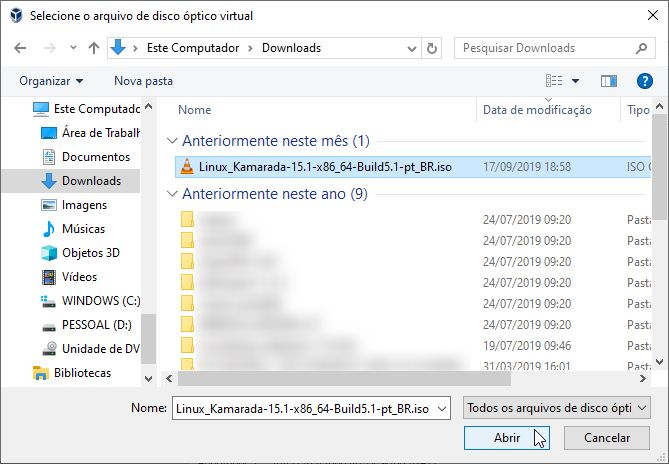
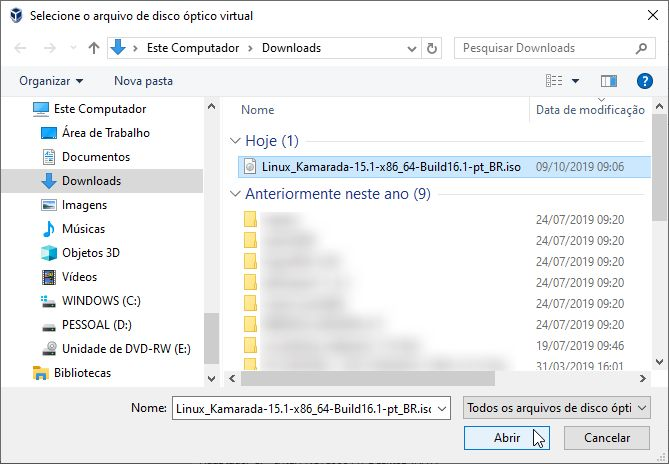
Post (in English) - VirtualBox: the easiest way to try Linux without installing it

diff --git a/en/_posts/2019-10-10-virtualbox-the-easiest-way-to-try-linux-without-installing-it.md b/en/_posts/2019-10-10-virtualbox-the-easiest-way-to-try-linux-without-installing-it.md
@@ -1,0 +1,234 @@
+---
+date: '2019-10-10 22:30:00 GMT-3'
+layout: post
+published: true
+title: 'VirtualBox: the easiest way to try Linux without installing it'
+image: '/files/2019/07/virtualbox-en.jpg'
+nickname: 'virtualbox'
+---
+
+{% include image.html src="/files/2019/07/virtualbox-en.jpg" %}
+
+[VirtualBox] allows you to use [Linux] within a window, just like you use any other app on your familiar operating system. Do you want to use Linux? Just start it. Finished using? Just close it. That is handy because you can have your first contact with Linux without actually installing it. It is even handier than a [LiveDVD/USB][live], because to use live media you need to reboot.
+
+By "window", I meant to simplify it, so that you could have a picture of how it looks like. But actually that "window", technically speaking, is a **virtual machine** (often abbreviated as **VM**): it is an emulated computer created by software. It provides similar functionality to a physical machine, so that you can install operating systems and apps on it. The operating system (OS) installed on a virtual machine "believes" it is installed on a "real" computer.
+
+Your computer (which is a physical machine and is, in contrast, called a **real machine**) can run many virtual machines at the same time (as long as the needed amounts of RAM and disk space are available). In practice, that means you can use multiple OSes at the same time. For example, you can use both [Windows] and Linux at the same time.
+
+The operating system of the real machine is called **host operating system** (**host OS**): it hosts the virtual machine, whose operating system is called **guest operating system** (**guest OS**).
+
+This technology is called **virtualization**. And put simply, VirtualBox is a software that provides you an user-friendly way to do virtualization using your personal computer.
+
+[VirtualBox] is a [free and open-source][foss] cross-platform virtualization software developed by [Oracle]. It can be installed on your [PC][ibm-pc], whether you use Windows, [macOS], Linux or [Solaris], and it supports a large number of guest operating systems, including, but not limited to: Windows (3.x, 95, 98, NT, 2000, XP, Server 2003, Vista, 7, 8, 8.1, 10, Server 2008, Server 2012 and Server 2016), DOS, Linux (2.4, 2.6, 3.x and 4.x), Solaris, OpenSolaris, OS/2 and OpenBSD.
+
+We already talked a little about VirtualBox in another post:
+
+- [20 apps you can use the same way on both Linux and Windows — part 2][apps-linux-windows-2]
+
+Today we are going to see how to install VirtualBox on Windows, create a virtual machine and boot a Linux [live image][live] on it. To demonstrate how to do that, I'm going to use the [Kamarada][kamarada-15.1-beta] Linux distribution, which you get on the [Download] page.
+
+## Part 1 of 3
+
+For the post not to be too long, I decided to split it into three parts:
+
+1. in this first part, you are going to install VirtualBox on Windows, learn its basics and start using Linux inside a virtual machine;
+2. in the second part, you will see how to install VirtualBox on Linux;
+3. in the third part, you will see some useful tips for using VirtualBox daily.
+
+This sequence of posts is devoted mainly to Windows users who haven't had their first contact with Linux yet and want to try it using the safety of VirtualBox.
+
+If you already use Linux, you may want to install VirtualBox to try another distribution. VirtualBox can be useful for [other purposes][virt-why-useful] too.
+
+## Downloading VirtualBox for Windows
+
+Download the VirtualBox installer going to its official website at:
+
+- [https://www.virtualbox.org/](https://www.virtualbox.org/)
+
+Click the **Download VirtualBox 6.0** banner:
+
+{% include image.html src="/files/2019/10/virtualbox-01.jpg" %}
+
+Below **VirtualBox binaries**, click **Windows hosts**:
+
+{% include image.html src="/files/2019/10/virtualbox-02.jpg" %}
+
+The download starts.
+
+## Installing VirtualBox on Windows
+
+Run the installer when the download is complete.
+
+{% include image.html src="/files/2019/10/virtualbox-03.jpg" %}
+
+You can install VirtualBox just like you install most programs on Windows (next, next, next).
+
+During installation, Windows prompts you whether to install drivers for VirtualBox:
+
+{% include image.html src="/files/2019/10/virtualbox-04-en.jpg" %}
+
+Allow it by clicking **Install**.
+
+At the end, click **Finish** to exit the installation wizard and start VirtualBox:
+
+{% include image.html src="/files/2019/10/virtualbox-05.jpg" %}
+
+## Creating a new virtual machine
+
+This is the VirtualBox start screen, so far without any virtual machine:
+
+{% include image.html src="/files/2019/10/virtualbox-06-en.jpg" %}
+
+To create a new virtual machine, click the **New** button.
+
+The **Create Virtual Machine** wizard is started:
+
+{% include image.html src="/files/2019/10/virtualbox-07-en.jpg" %}
+
+Give the virtual machine a **Name**. For instance, `openSUSE`.
+
+Note that when you type `openSUSE`, the wizard suggests the settings **Type** — `Linux` — and **Version** — `openSUSE (64-bit)`. If you wanted, you could have given another name to the virtual machine (e.g. `Testing Linux`) and filled those other fields manually. Regarding the name, what really matters is that it makes sense for you and helps you identify the VM.
+
+When you are finished, click **Next**.
+
+On the next page, inform the amount of RAM you want to reserve for the VM:
+
+{% include image.html src="/files/2019/10/virtualbox-08-en.jpg" %}
+
+In the image example, my real machine has a total of 16GB of RAM (16384MB) and I decided to reserve 2GB for the VM. In the future, when I start this VM, the guest OS will "believe" that it is running on a computer with 2GB of RAM, while the host OS will have 14GB left for all the other software (including any other virtual machines).
+
+Split the RAM so that there is enough memory for both the real and the virtual machines. Mind the green bar, which indicates the maximum amount of memory considered to be safe to reserve for the VM. In the example, that limit is somewhere around 10.5GB (doing the maths, 2/3 or 66% of the 16GB total).
+
+Note that the amount of RAM to be allocated is expressed in MB (2GB x 1024 = 2048MB).
+
+When you are finished, click **Next**.
+
+On the next page, we can create a virtual hard disk for the VM:
+
+{% include image.html src="/files/2019/10/virtualbox-09-en.jpg" %}
+
+A virtual hard disk, from the host OS perspective, is a large file, such as a ZIP archive. But VirtualBox presents it to the VM as if it were a physical HDD or SSD.
+
+Since we are going to use a live image, for now we don't really need to create a virtual hard disk to try Linux. We'll see how to create a virtual hard disk later.
+
+Then, choose **Do not add a virtual hard disk** and click **Create**.
+
+Click **Continue** to ignore the VirtualBox warning:
+
+{% include image.html src="/files/2019/10/virtualbox-10-en.jpg" %}
+
+Now the VirtualBox start screen shows your first virtual machine:
+
+{% include image.html src="/files/2019/10/virtualbox-11-en.jpg" %}
+
+Note that you can configure every aspect of the virtual machine (memory, display, storage, audio, network, etc.) to mimic a physical machine.
+
+## Inserting the ISO image into the virtual DVD drive
+
+Let's insert the ISO image of the Linux distribution into the virtual DVD drive of the virtual machine, as if we were inserting a DVD into the DVD drive of a physical machine.
+
+On the VirtualBox start screen, which shows the virtual machine settings, click **Storage**.
+
+By the left, under **Storage Devices**, within the **Controller: IDE**, select the DVD drive that appears as **Empty**:
+
+{% include image.html src="/files/2019/10/virtualbox-12-en.jpg" %}
+
+By the right, click the media icon and then, on the drop-down menu that appears, click **Choose Virtual Optical Disk File**.
+
+Select the ISO image of the Linux distribution you downloaded and click **Open**:
+
+{% include image.html src="/files/2019/10/virtualbox-13-en.jpg" %}
+
+Click **OK** to close the **Settings** dialog box and return to the VirtualBox start screen.
+
+## Starting and using the virtual machine
+
+To start the virtual machine, click the **Start** button:
+
+{% include image.html src="/files/2019/10/virtualbox-14-en.jpg" %}
+
+(doing that is similar to pressing the power button of a physical machine)
+
+VirtualBox opens a new window for the virtual machine, which starts to boot the operating system up, just like a physical machine would do:
+
+{% include image.html src="/files/2019/10/virtualbox-15-en.jpg" %}
+
+Everything which would normally be seen on the virtual machine's monitor is shown in the window.
+
+When the system finishes booting up, you will see the desktop and can start using it:
+
+{% include image.html src="/files/2019/10/virtualbox-16-en.jpg" %}
+
+In addition to displaying image, the VM window also allows you to interact with the VM: to control the VM, click on the window, then the keyboard and the mouse are now "owned" by the VM and can be used only within it.
+
+To return ownership of keyboard and mouse to the host OS, VirtualBox reserves a special key on the keyboard: it is called the **Host key** and it is, by default, the **right Ctrl** key. Press the Host key, then keyboard and mouse are now owned by the host OS again.
+
+The current setting for the Host key is always displayed at the bottom right of your VM window:
+
+{% include image.html src="/files/2019/10/virtualbox-17.png" %}
+
+In case the guest OS reports that it supports **mouse pointer integration**, that means you can move the mouse pointer freely between the virtual machine window and other opened windows on the host OS, you don't need to click on the VM window to capture the mouse, nor hit the Host key to release it.
+
+When used within a VirtualBox VM as a guest OS, Linux Kamarada enables mouse pointer integration by default, making the VM usage a lot more seamless.
+
+You can change the default Host key in the VirtualBox preferences, if you want.
+
+## Shutting the virtual machine down
+
+When you are finished using the virtual machine, shut it down as usual, in the same way you would shutdown a physical machine. In case your guest OS is Linux Kamarada, which comes with the [GNOME] desktop out-of-the-box, to shut the VM down, click the **system menu**, in the upper right corner of the VM screen, and then click the **Shutdown** icon:
+
+{% include image.html src="/files/2019/10/virtualbox-18-en.jpg" %}
+
+In case the virtual machine freezes and you need to forcibly shut it down, click the close button of the VM window (as if you were closing the window) and VirtualBox will ask you what you want to do, choose **Power off the machine** and click **OK**:
+
+{% include image.html src="/files/2019/10/virtualbox-19-en.png" %}
+
+(doing that is similar to pressing and holding the power button of a physical machine for a few seconds until it forcibly shuts down)
+
+## Starting VirtualBox on Windows
+
+If you have strictly followed this tutorial, you had VirtualBox started by its own installer.
+
+To start VirtualBox yourself, you can double-click its desktop shortcut:
+
+{% include image.html src="/files/2019/10/virtualbox-20.jpg" %}
+
+Or open the **Start menu**, type `virtualbox` and click its icon:
+
+{% include image.html src="/files/2019/10/virtualbox-21-en.jpg" %}
+
+## To be continued...
+
+In part 2, we are going to see how to install VirtualBox on Linux. See you!
+
+## References
+
+For future reference, here I used the following software versions:
+
+- Microsoft Windows 10
+- Oracle VM VirtualBox 6.0.12
+- Linux Kamarada 15.1 Beta Build 16.1
+
+All of them are the latest versions at the time of writing.
+
+To write this post, I consulted:
+
+- [Virtual Machine definition - TechTerms][techterms]
+- [Oracle VM VirtualBox - User Manual - Chapter 1 - First Steps][virtualbox-manual]
+
+[virtualbox]:           https://www.virtualbox.org/
+[linux]:                https://www.kernel.org/linux.html
+[live]:                 {% post_url en/2015-11-25-what-is-a-livecd-dvd-usb %}
+[windows]:              https://www.microsoft.com/windows/
+[apps-linux-windows-2]: {% post_url en/2019-08-12-20-apps-you-can-use-the-same-way-on-both-linux-and-windows-part-2 %}
+[foss]:                 https://en.wikipedia.org/wiki/Free_and_open-source_software
+[oracle]:               https://www.oracle.com/
+[ibm-pc]:               https://en.wikipedia.org/wiki/IBM_Personal_Computer
+[macos]:                https://www.apple.com/macos/
+[solaris]:              https://www.oracle.com/solaris/
+[kamarada-15.1-beta]:   {% post_url en/2019-09-13-first-beta-release-of-the-kamarada-linux-distribution %}
+[download]:             /en/download
+[virt-why-useful]:      https://www.virtualbox.org/manual/ch01.html#virt-why-useful
+[gnome]:                https://www.gnome.org/
+[techterms]:            https://techterms.com/definition/virtual_machine
+[virtualbox-manual]:    https://www.virtualbox.org/manual/ch01.html

diff --git a/pt/_posts/2019-10-08-virtualbox-a-forma-mais-facil-de-conhecer-o-linux-sem-precisar-instala-lo.md b/pt/_posts/2019-10-08-virtualbox-a-forma-mais-facil-de-conhecer-o-linux-sem-precisar-instala-lo.md
@@ -9,7 +9,7 @@ nickname: 'virtualbox'
 
 {% include image.html src="/files/2019/07/virtualbox-pt.jpg" %}
 
-O [VirtualBox] permite que você use o [Linux] dentro de uma janela, como um programa no sistema operacional que você já usa. Com essa facilidade, você pode ter seu primeiro contato com o Linux sem precisar instalá-lo no computador ou mesmo reiniciar para usar um [LiveDVD/USB][live]: quer usar o Linux? Só iniciar o programa. Terminou de usar? Só fechar a janela.
+O [VirtualBox] permite que você use o [Linux] dentro de uma janela, como um programa no sistema operacional que você já usa. Com essa facilidade, você pode ter seu primeiro contato com o Linux sem precisar instalá-lo ou mesmo reiniciar o computador para usar um [LiveDVD/USB][live]: quer usar o Linux? Só iniciar o programa. Terminou de usar? Só fechar a janela.
 
 Na verdade essa "janela", explicada assim de forma simplificada, tecnicamente falando é uma **máquina virtual** (do inglês _virtual machine_, comumente abreviada por **VM**): é um computador que, fisicamente falando, não existe, mas pode ser usado para instalar sistemas operacionais e aplicativos. O sistema operacional (SO) que está na máquina virtual "pensa" que está em um computador "de verdade".
 
@@ -19,11 +19,11 @@ O sistema operacional da máquina real é chamado de **hospedeiro** (_host_): el
 
 Essa tecnologia é chamada de **virtualização**. E o VirtualBox nada mais é que um programa que permite a você fazer virtualização de forma fácil em seu computador.
 
+O VirtualBox é um [_software_ livre][free-software], gratuito e multi-plataforma de virtualização desenvolvido pela [Oracle]. Ele pode ser instalado no seu [PC][ibm-pc], quer você use Windows, [macOS], Linux ou [Solaris], e suporta diversos sistemas operacionais convidados, incluindo, mas não limitado a: Windows (3.x, 95, 98, NT, 2000, XP, Server 2003, Vista, 7, 8, 8.1, 10, Server 2008, Server 2012, Server 2016), DOS, Linux (2.4, 2.6, 3.x e 4.x), Solaris, OpenSolaris, OS/2 e OpenBSD.
+
 Já falamos um pouco sobre o VirtualBox no _post_:
 
 - [20 aplicativos que você pode usar do mesmo jeito no Linux e no Windows — parte 2][apps-linux-windows-2]
-
-O VirtualBox é um [_software_ livre][free-software], gratuito e multi-plataforma de virtualização desenvolvido pela [Oracle]. Ele pode ser instalado no seu [PC][ibm-pc], quer você use Windows, [macOS], Linux ou [Solaris], e suporta diversos sistemas operacionais convidados, incluindo, mas não limitado a: Windows (3.x, 95, 98, NT, 2000, XP, Server 2003, Vista, 7, 8, 8.1, 10, Server 2008, Server 2012, Server 2016), DOS, Linux (2.4, 2.6, 3.x e 4.x), Solaris, OpenSolaris, OS/2 e OpenBSD.
 
 Hoje veremos como instalar o VirtualBox no Windows, criar uma máquina virtual e iniciar nela uma [imagem _live_][live] do Linux. Vou usar como exemplo a distribuição [Linux Kamarada][kamarada-15.1-beta], cuja imagem _live_ pode ser baixada na página [Download].
 
@@ -37,7 +37,7 @@ Para o _post_ não ficar muito extenso, decidi dividi-lo em três partes:
 
 Essa sequência de _posts_ é dedicada principalmente a usuários de Windows que ainda não tiveram seu primeiro contato com o Linux e desejam experimentá-lo por meio do VirtualBox.
 
-Se você já usa Linux, também pode instalar o VirtualBox para experimentar outra distribuição ou mesmo para outras finalidades.
+Se você já usa Linux, também pode instalar o VirtualBox para experimentar outra distribuição ou mesmo para [outras finalidades][virt-why-useful].
 
 ## Baixando o VirtualBox no Windows
 
@@ -45,7 +45,7 @@ Para baixar o instalador do VirtualBox para Windows, acesse o _site_ oficial do 
 
 - [https://www.virtualbox.org/](https://www.virtualbox.org/)
 
-E clique no botão **Download VirtualBox 6.0**:
+E clique no _banner_ **Download VirtualBox 6.0**:
 
 {% include image.html src="/files/2019/10/virtualbox-01.jpg" %}
 
@@ -95,7 +95,7 @@ Na tela seguinte, informe a quantidade de memória RAM que deseja reservar para 
 
 {% include image.html src="/files/2019/10/virtualbox-08-pt.jpg" %}
 
-No exemplo da imagem, minha máquina real dispõe de 16GB de RAM e eu decidi reservar 2GB para a máquina virtual. Com isso, o sistema operacional convidado "pensará" que está sendo executado em um computador com 2GB de RAM. Já o SO hospedeiro poderá usar apenas 14GB de RAM para executar outros programas e máquinas virtuais.
+No exemplo da imagem, minha máquina real tem um total de 16GB de RAM (16384MB) e eu decidi reservar 2GB para a VM. No futuro, enquanto eu estiver usando essa VM, o SO convidado “pensará” que está sendo executado em um computador com 2GB de RAM e restarão 14GB de RAM para o SO hospedeiro executar programas e outras máquinas virtuais.
 
 Divida a memória RAM de modo que não falte memória nem para a máquina virtual, nem para a máquina real. Na tela, a barra verde indica o limite de memória considerado seguro. No exemplo, algo em torno de 10,5GB (fazendo as contas, 2/3 ou 66% do total de 16GB).
 
@@ -125,7 +125,7 @@ Veja que você pode configurar várias características da máquina virtual (mem
 
 ## Inserindo a imagem ISO no leitor de DVD virtual
 
-Vamos inserir a imagem ISO no leitor de DVD da máquina virtual, como quem insere um DVD em um leitor de DVD de um computador de verdade.
+Vamos inserir a imagem ISO da distribuição Linux no leitor de DVD da máquina virtual, como quem insere um DVD em um leitor de DVD de um computador de verdade.
 
 Para isso, na tela inicial, que mostra as configurações da VM, clique em **Armazenamento**.
 
@@ -175,15 +175,13 @@ Caso deseje, você pode alterar a tecla Hospedeiro nas configurações do Virtua
 
 ## Desligando a máquina virtual
 
-Quando terminar de usar a máquina virtual, desligue-a normalmente, da mesma forma como você faria em uma máquina real. Se na VM você está usando o Linux Kamarada, que vem por padrão com a área de trabalho [GNOME], para desligar a VM, clique no **menu do sistema**, no canto superior direito da tela, e depois, no menu que aparece, clique no ícone **Desligar**:
+Quando terminar de usar a máquina virtual, desligue-a normalmente, da mesma forma como você faria em uma máquina real. Se seu SO convidado é o Linux Kamarada, que vem por padrão com a área de trabalho [GNOME], para desligar a VM, clique no **menu do sistema**, no canto superior direito da tela da VM, e depois, no menu que aparece, clique no ícone **Desligar**:
 
 {% include image.html src="/files/2019/10/virtualbox-18-pt.jpg" %}
 
-Caso a máquina virtual trave e você precise forçar seu desligamento, clique no botão de fechar (como se fosse fechar a janela) e o VirtualBox perguntará o que deseja fazer:
+Caso a máquina virtual trave e você precise forçar seu desligamento, clique no botão de fechar da janela da VM (como se fosse fechar a janela) e o VirtualBox perguntará o que deseja fazer, selecione **Desligar a máquina** em clique em **OK**:
 
 {% include image.html src="/files/2019/10/virtualbox-19-pt.png" %}
-
-Selecione **Desligar a máquina** em clique em **OK**.
 
 Isso equivale, em um computador de verdade, a apertar e segurar o botão de ligar/desligar por alguns segundos, até que o computador desligue (de modo forçado).
 
@@ -209,7 +207,7 @@ Para referência futura, aqui utilizei as seguintes versões de _softwares_:
 
 - Microsoft Windows 10, versão 1903
 - Oracle VM VirtualBox 6.0.12
-- Linux Kamarada 15.1 Beta
+- Linux Kamarada 15.1 Beta Build 16.1
 
 Todas são as versões mais recentes no momento da escrita.
 
@@ -218,16 +216,17 @@ Para escrever esse _post_, consultei o manual do VirtualBox:
 - [Oracle VM VirtualBox - User Manual - Chapter 1 - First Steps][virtualbox-manual]
 
 [virtualbox]:           https://www.virtualbox.org/
-[linux]:                http://www.vivaolinux.com.br/linux/
+[linux]:                https://www.vivaolinux.com.br/linux/
 [live]:                 {% post_url pt/2015-11-25-o-que-e-um-livecd-um-livedvd-um-liveusb %}
 [windows]:              https://www.microsoft.com/pt-br/windows/
-[apps-linux-windows-2]: {%post_url pt/2019-07-12-20-aplicativos-que-voce-pode-usar-do-mesmo-jeito-no-linux-e-no-windows-parte-2 %}
+[apps-linux-windows-2]: {% post_url pt/2019-07-12-20-aplicativos-que-voce-pode-usar-do-mesmo-jeito-no-linux-e-no-windows-parte-2 %}
 [free-software]:        https://www.gnu.org/philosophy/free-sw.pt-br.html
 [oracle]:               https://www.oracle.com/br/
 [ibm-pc]:               https://pt.wikipedia.org/wiki/IBM_PC
-[macos]:                http://www.apple.com/br/macos/
+[macos]:                https://www.apple.com/br/macos/
 [solaris]:              https://www.oracle.com/solaris/
 [kamarada-15.1-beta]:   {% post_url pt/2019-09-13-primeira-versao-beta-da-distribuicao-linux-kamarada %}
 [download]:             /pt/download
+[virt-why-useful]:      https://www.virtualbox.org/manual/ch01.html#virt-why-useful
 [gnome]:                https://br.gnome.org/
 [virtualbox-manual]:    https://www.virtualbox.org/manual/ch01.html
